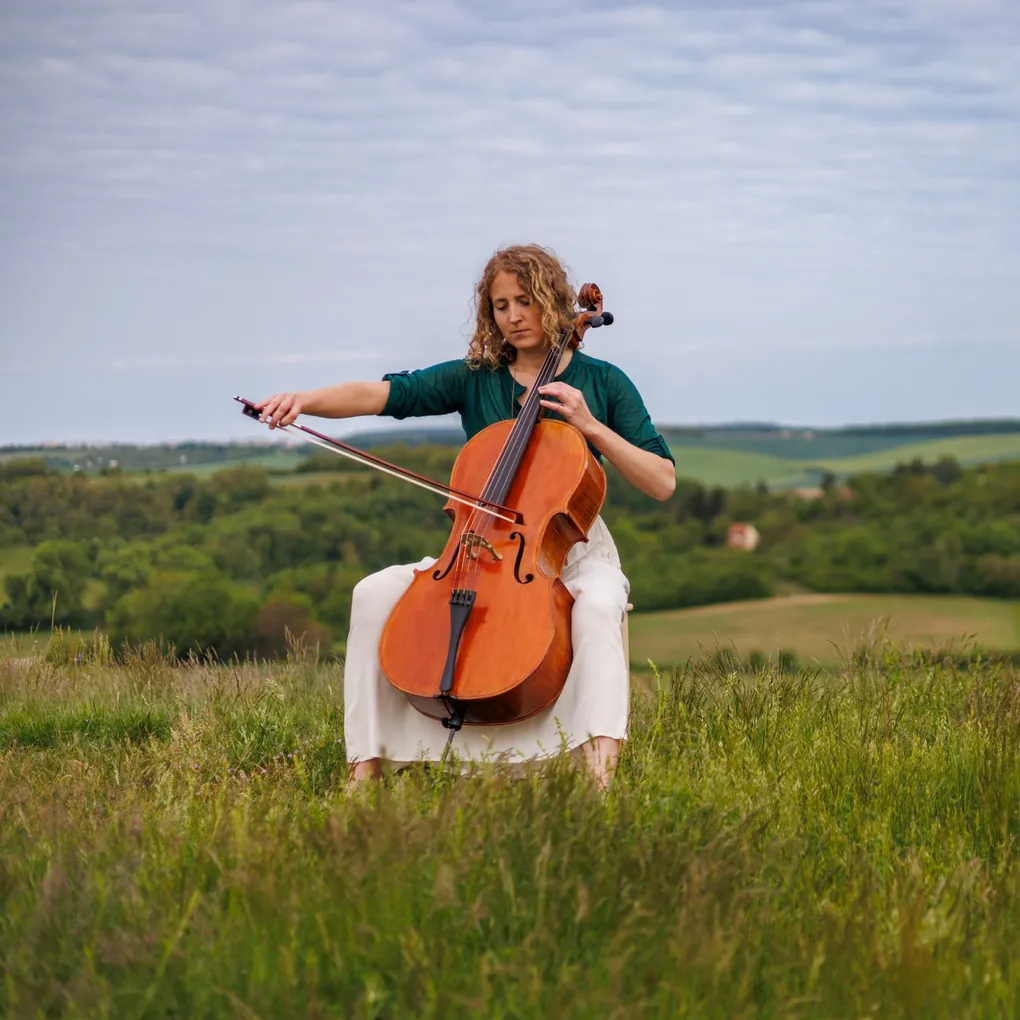
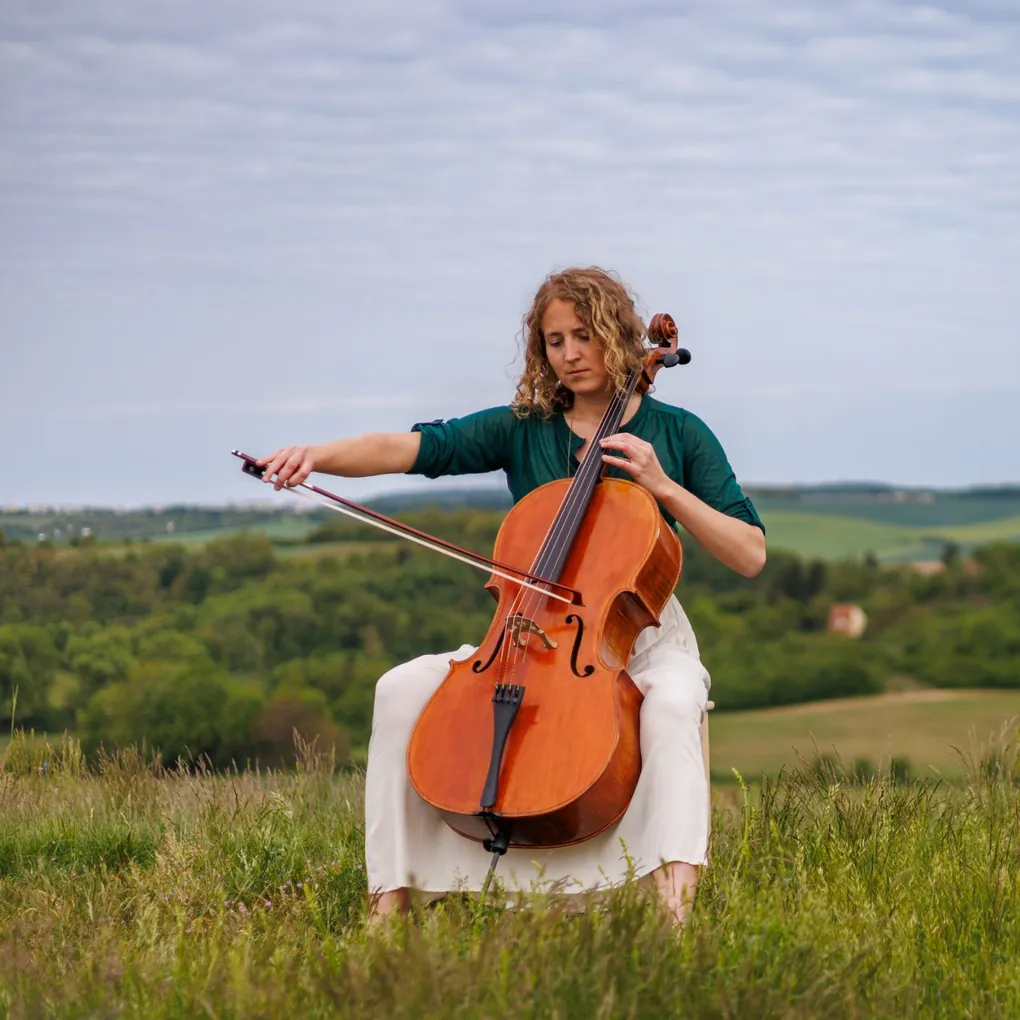
Add files via upload

diff --git a/style.css b/style.css
@@ -47,7 +47,16 @@ a{color:inherit;text-decoration:none}
 .hero .btn-wrap{margin-top:34px;padding-left:7px}
 .btn-hero{display:inline-block;background:var(--peach);color:var(--primary);font-size:25px;font-weight:500;padding:10px 30px;border-radius:45px;transition:background .3s,transform .3s}
 .btn-hero:hover{background:var(--text);transform:translateY(-2px)}
-.hero-mobile{display:none}
+.hero-mobile{display:none;background:var(--primary);color:var(--text);text-align:center}
+.hm-photo{position:relative}
+.hm-photo img{width:100%;height:auto;aspect-ratio:1/1;object-fit:cover}
+.hm-photo::after{content:"";position:absolute;left:0;right:0;bottom:0;height:22%;background:linear-gradient(to bottom,rgba(0,61,46,0),var(--primary))}
+.hm-text{padding:10px 24px 50px;position:relative;margin-top:-10px}
+.hm-text h1{font-size:62px;font-weight:300;line-height:1.1}
+.hm-text h2{font-size:26px;font-weight:300;margin:10px 0 26px}
+.hm-text p{font-size:20px;font-weight:300;line-height:1.5}
+.hm-text p.strong{font-weight:600;margin-top:4px}
+.hm-text .btn-hero{font-size:20px;margin-top:30px}
 
 /* ===== O mně ===== */
 .about{background:var(--secondary);padding:70px 20px 280px}
@@ -217,13 +226,10 @@ a{color:inherit;text-decoration:none}
 /* Tablet na výšku: hero jako na mobilu */
 @media (max-width:1024px) and (orientation:portrait){
   .hero{display:none}
-  .hero-mobile{display:block;background:var(--primary);color:var(--text);text-align:center;padding:120px 30px 50px}
-  .hero-mobile h1{font-size:56px;font-weight:300;line-height:1.1}
-  .hero-mobile h2{font-size:28px;font-weight:300;margin:6px 0 24px}
-  .hero-mobile p{font-size:22px;font-weight:300;line-height:1.5}
-  .hero-mobile p+p{margin-top:14px}
-  .hero-mobile .btn-hero{margin:30px 0 36px}
-  .hero-mobile img{margin:0 auto;width:100%;max-width:600px}
+  .hero-mobile{display:block}
+  .hm-text h1{font-size:64px}
+  .hm-text h2{font-size:30px}
+  .hm-text p{font-size:24px}
 }
 
 /* ===== Mobil ===== */
@@ -236,13 +242,8 @@ a{color:inherit;text-decoration:none}
   .main-nav a{padding:12px 20px;text-align:center}
   .main-nav a::after{display:none}
   .hero{display:none}
-  .hero-mobile{display:block;background:var(--primary);color:var(--text);text-align:center;padding:110px 20px 40px;position:relative}
-  .hero-mobile h1{font-size:44px;font-weight:300;line-height:1.1}
-  .hero-mobile h2{font-size:24px;font-weight:300;margin:6px 0 24px}
-  .hero-mobile p{font-size:20px;font-weight:300;line-height:1.5}
-  .hero-mobile p+p{margin-top:14px}
-  .hero-mobile .btn-hero{font-size:20px;margin:28px 0 30px}
-  .hero-mobile img{margin:0 auto;width:100%;max-width:500px}
+  .hero-mobile{display:block}
+  .site-header .social{background:var(--primary);border-radius:40px;padding:4px 10px}
   .about{padding:50px 15px}
   .about-grid{grid-template-columns:1fr}
   .about-img,.about-text{grid-column:1;justify-self:center;text-align:center}

diff --git a/index.html b/index.html
@@ -64,12 +64,14 @@
 
 <!-- ===== Hero (mobil) ===== -->
 <section class="hero-mobile">
-  <h1>Radka Těšíková</h1>
-  <h2>- nabídka živé hudby -</h2>
-  <p>Správný výběr hudby umocňuje výjimečné momenty, svatby, večeře i firemní akce.</p>
-  <p>Jeden muzikant, ale několik nástrojů.</p>
-  <a class="btn-hero" href="kontakt.html">Napište mi</a>
-  <img src="hero-mobil.webp" alt="violoncellistka Radka Těšíková" width="1020" height="1024">
+  <div class="hm-photo"><img src="hero-mobil.webp" alt="violoncellistka Radka Těšíková" width="1020" height="1020"></div>
+  <div class="hm-text">
+    <h1>Radka Těšíková</h1>
+    <h2>- nabídka živé hudby -</h2>
+    <p>Správný výběr hudby umocňuje výjimečné momenty, svatby, večeře i firemní akce.</p>
+    <p class="strong">Jeden muzikant, ale několik nástrojů.</p>
+    <a class="btn-hero" href="kontakt.html">Napište mi</a>
+  </div>
 </section>
 
 <!-- ===== O mně ===== -->
